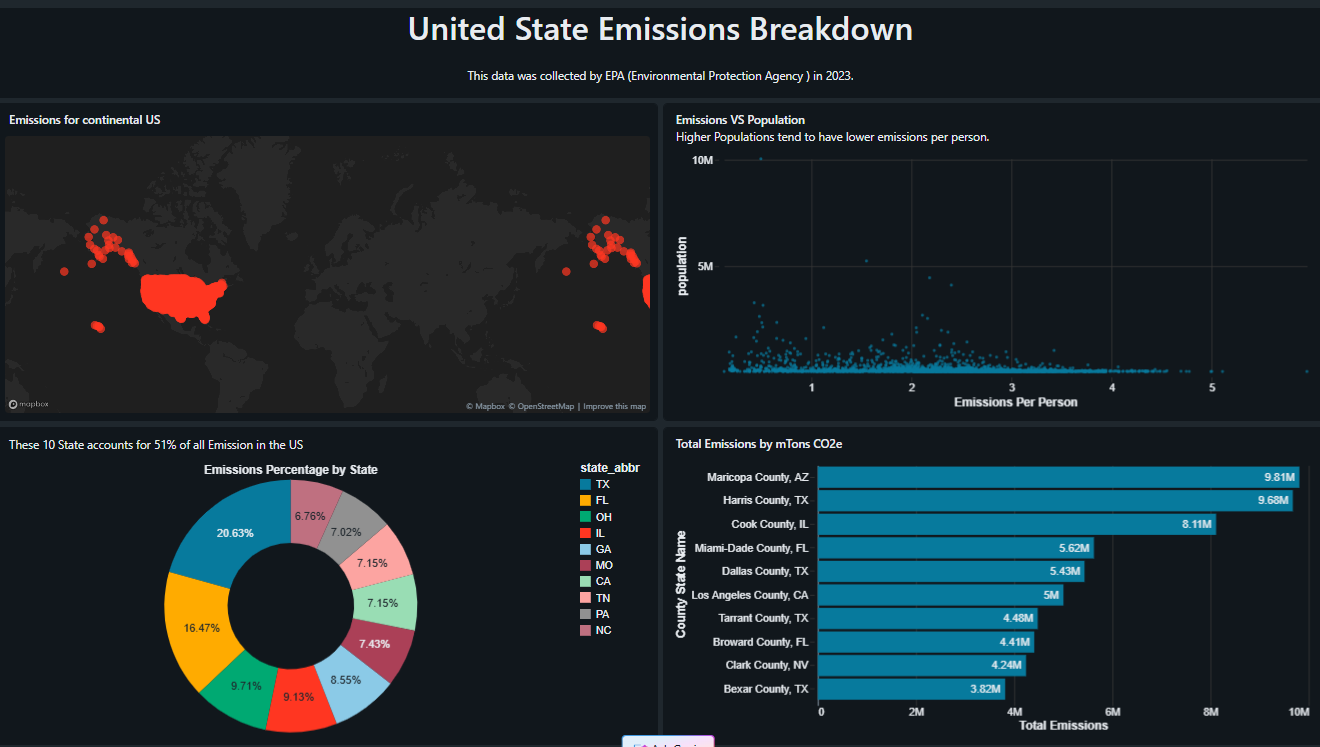
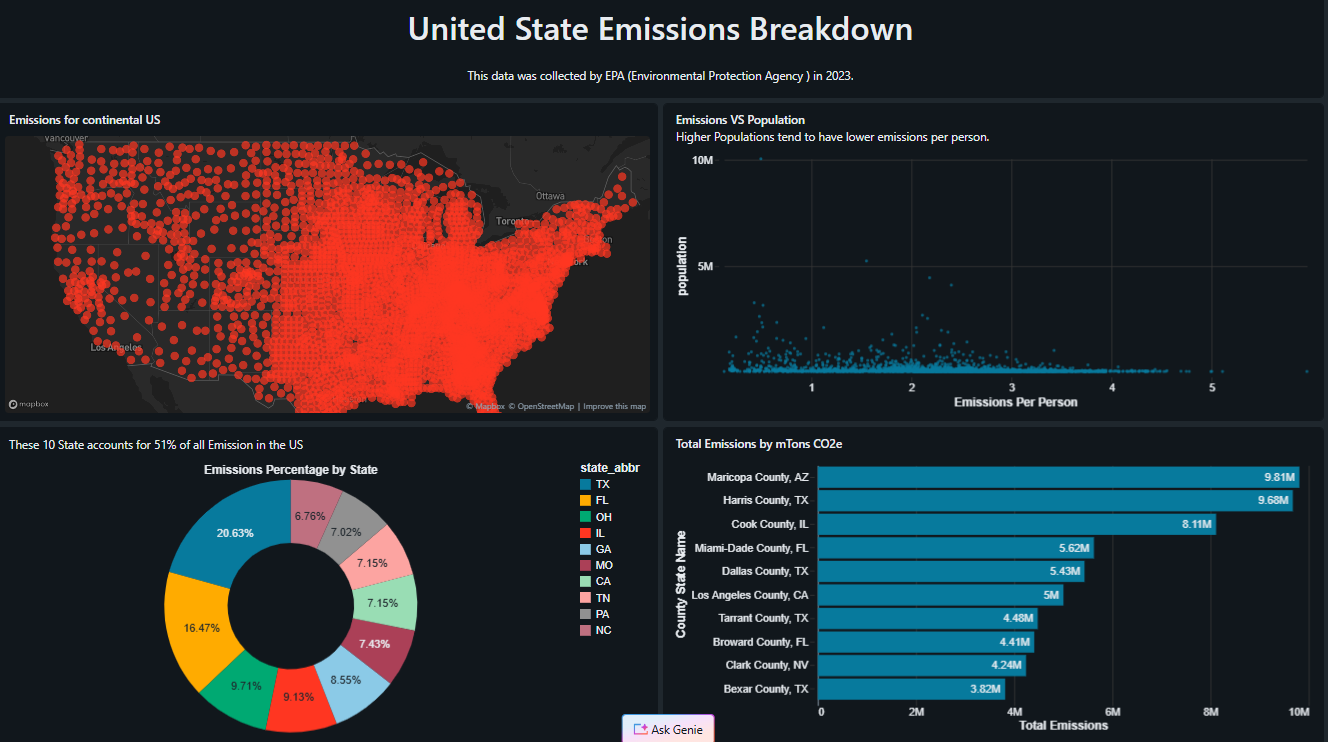
updated improved overview dashboard

diff --git a/SCREENSHOT-GUIDE.md b/SCREENSHOT-GUIDE.md
@@ -1,0 +1,138 @@
+# 📸 How to Add Dashboard Screenshots
+
+Follow these steps to capture and add your dashboard screenshots to the repository.
+
+## Step 1: Take Screenshots
+
+### Open Your Dashboard
+1. Navigate to your Emissions Dashboard in Databricks
+2. Dashboard URL: `https://dbc-ce5c7ebc-9595.cloud.databricks.com/dashboards/01f170cf76af10b2be836edb371de2e6`
+
+### Capture Screenshots
+
+You need to take **5 screenshots**:
+
+#### 1. **dashboard-overview.png** (Full Dashboard)
+   - Open the complete dashboard
+   - Make sure all 4 visualizations are visible
+   - Take a full-page screenshot
+   - Recommended size: 1920x1080 or larger
+
+#### 2. **geographic-map.png** (Geographic Visualization)
+   - Click on or zoom into the geographic map widget
+   - Capture just the map visualization
+   - Include the title and legend
+
+#### 3. **emissions-per-person.png** (Per Capita Chart)
+   - Focus on the "Emissions Per Person" bar chart
+   - Capture the full chart with axis labels
+   - Include the title
+
+#### 4. **top-states.png** (Top States Chart)
+   - Focus on the "Top 10 States" bar chart
+   - Capture the complete visualization
+   - Include all 10 states
+
+#### 5. **top-counties.png** (Top Counties Chart)
+   - Focus on the "County Shaming" / Top Counties chart
+   - Capture the complete visualization
+   - Include all 10 counties
+
+## Step 2: Screenshot Tools
+
+### Windows
+- **Snipping Tool** (Win + Shift + S)
+- **Full Screen**: PrtScn key
+- Save as PNG format
+
+### Mac
+- **Area Screenshot**: Cmd + Shift + 4
+- **Full Screen**: Cmd + Shift + 3
+- Automatically saves as PNG
+
+### Linux
+- **Gnome Screenshot**: Shift + PrtScn
+- **Flameshot**: flameshot gui
+- Save as PNG format
+
+## Step 3: Rename Your Screenshots
+
+Rename your screenshots exactly as follows:
+```
+dashboard-overview.png
+geographic-map.png
+emissions-per-person.png
+top-states.png
+top-counties.png
+```
+
+## Step 4: Upload to Repository
+
+### Method 1: Databricks Workspace UI
+1. In Databricks, navigate to your repo folder:
+   `/Repos/[email redacted]/Emissions-Dashboard/images/`
+2. Click the "Upload" button or drag and drop files
+3. Upload all 5 PNG files into the `images/` folder
+
+### Method 2: Git Command Line (if you cloned locally)
+```bash
+# Copy screenshots to the images folder
+cp /path/to/your/screenshots/*.png ./images/
+
+# Add to git
+git add images/*.png
+
+# Commit
+git commit -m "Add dashboard screenshots for documentation"
+
+# Push to GitHub
+git push origin main
+```
+
+### Method 3: GitHub Web Interface
+1. Go to https://github.com/Kisan303/Emissions-Dashboard
+2. Navigate to the `images/` folder
+3. Click "Add file" → "Upload files"
+4. Drag and drop your 5 PNG files
+5. Commit with message: "Add dashboard screenshots"
+
+## Step 5: Verify
+
+After uploading:
+1. Go to your GitHub repository
+2. Navigate to `images/` folder
+3. Verify all 5 PNG files are there
+4. Open README.md - the images should now display!
+
+## Tips for Best Screenshots
+
+✅ **DO:**
+- Use high resolution (at least 1280x720)
+- Capture in light mode for better visibility
+- Include chart titles and legends
+- Make sure data is visible and readable
+- Use PNG format (better quality than JPG)
+
+❌ **DON'T:**
+- Include sensitive information
+- Use low resolution images
+- Crop too tightly (leave some padding)
+- Include your browser tabs or bookmarks bar
+
+## Image Size Recommendations
+
+- **dashboard-overview.png**: 1920x1080 or larger
+- **Individual charts**: 1280x720 minimum
+- File size: Keep under 2MB each (GitHub friendly)
+
+## Need Help?
+
+If you have issues:
+1. Check file names match exactly (case-sensitive)
+2. Verify PNG format
+3. Ensure files are in the `images/` folder
+4. Make sure you committed and pushed to GitHub
+
+---
+
+Once complete, your README.md will automatically display beautiful dashboard screenshots! 🎉